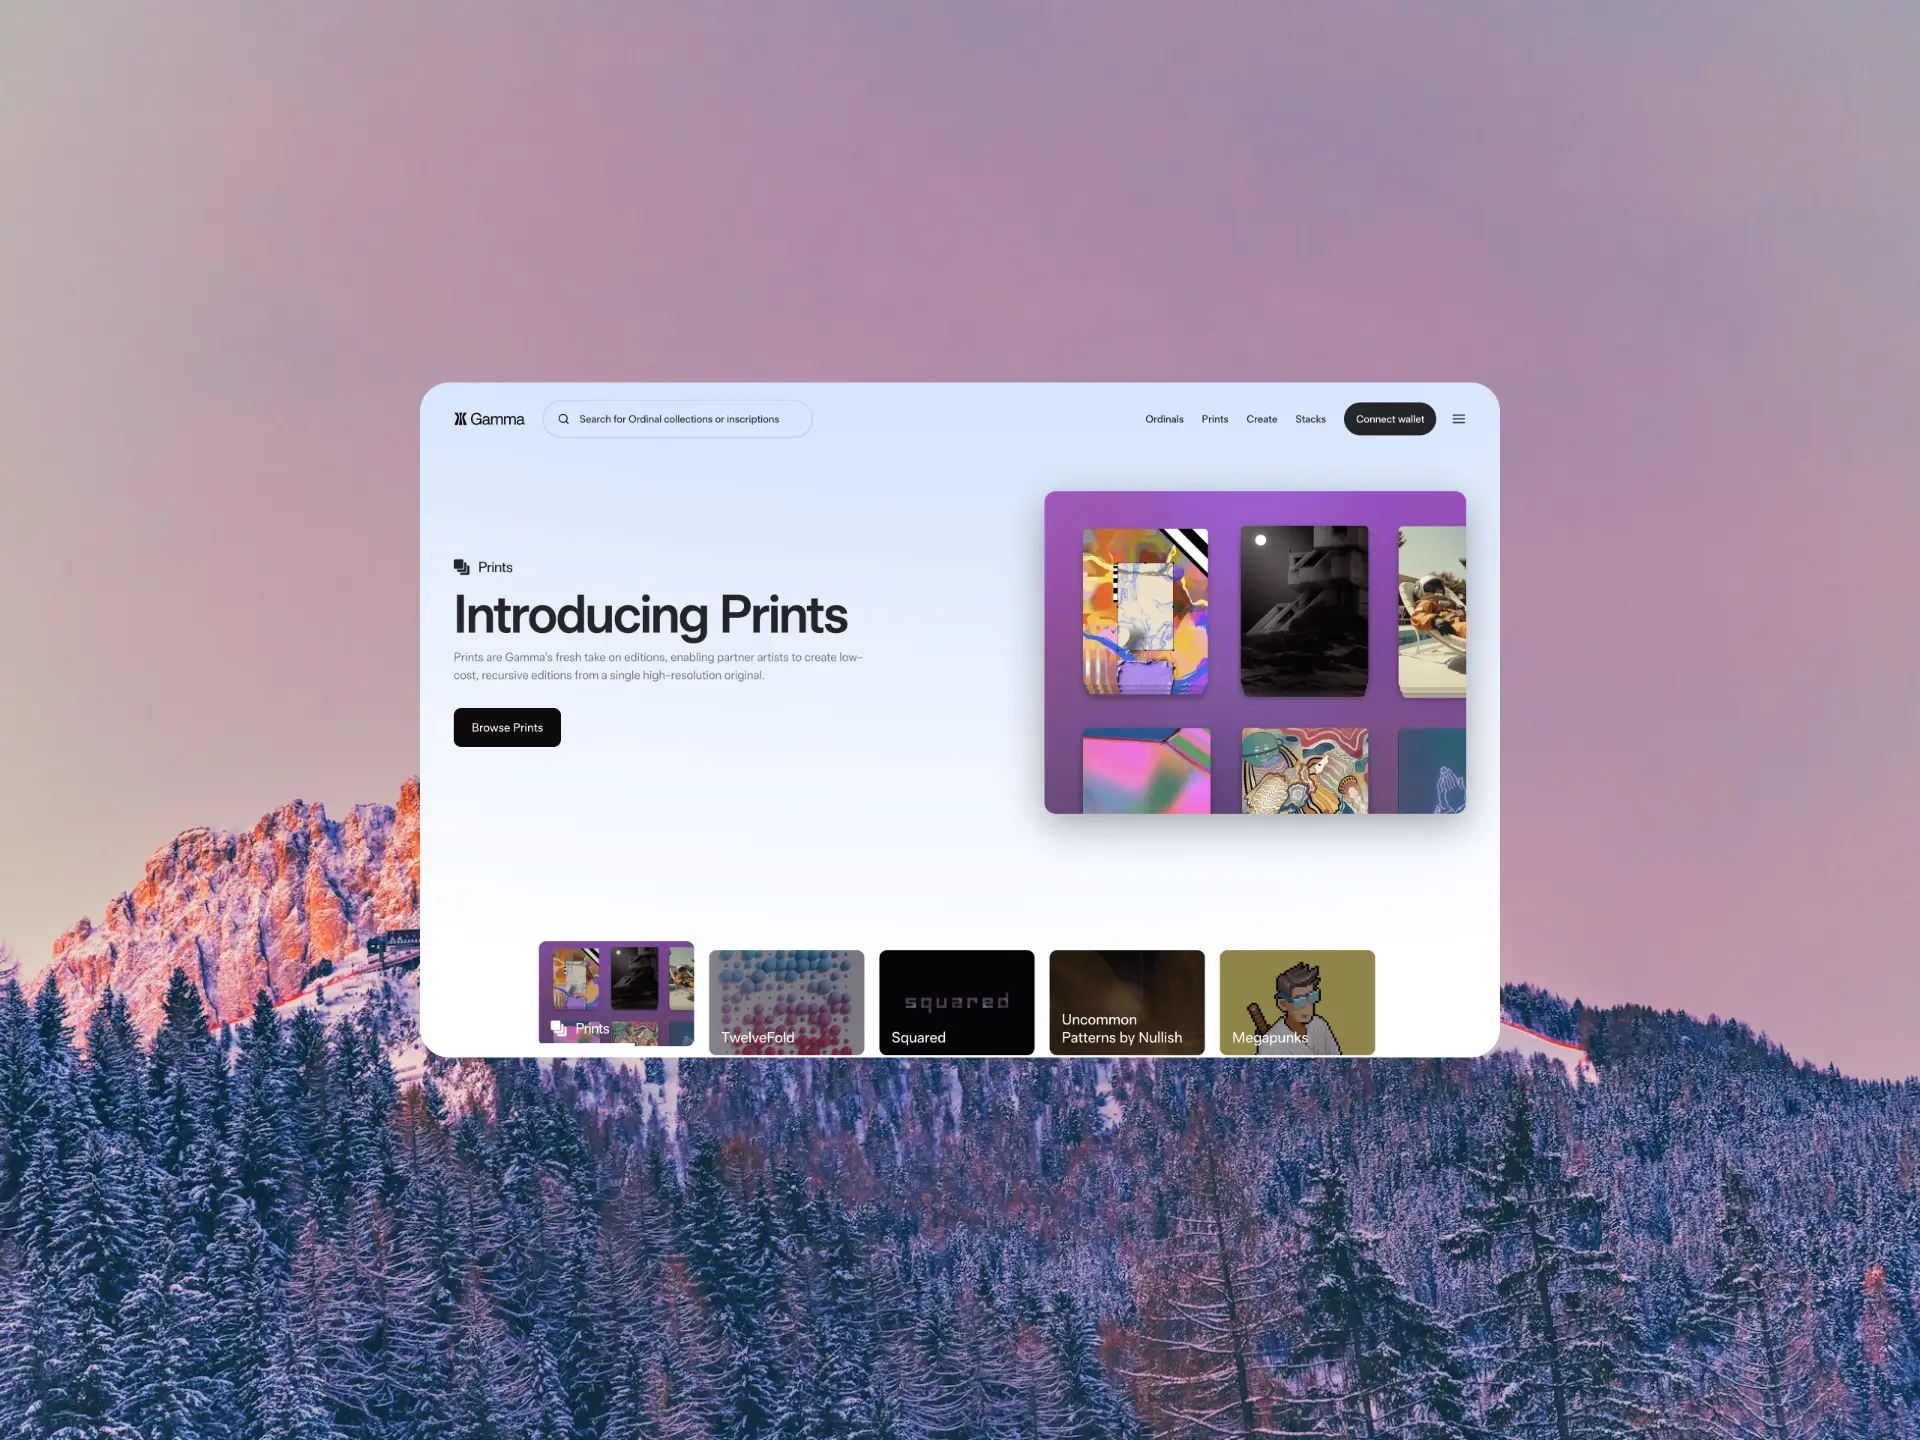
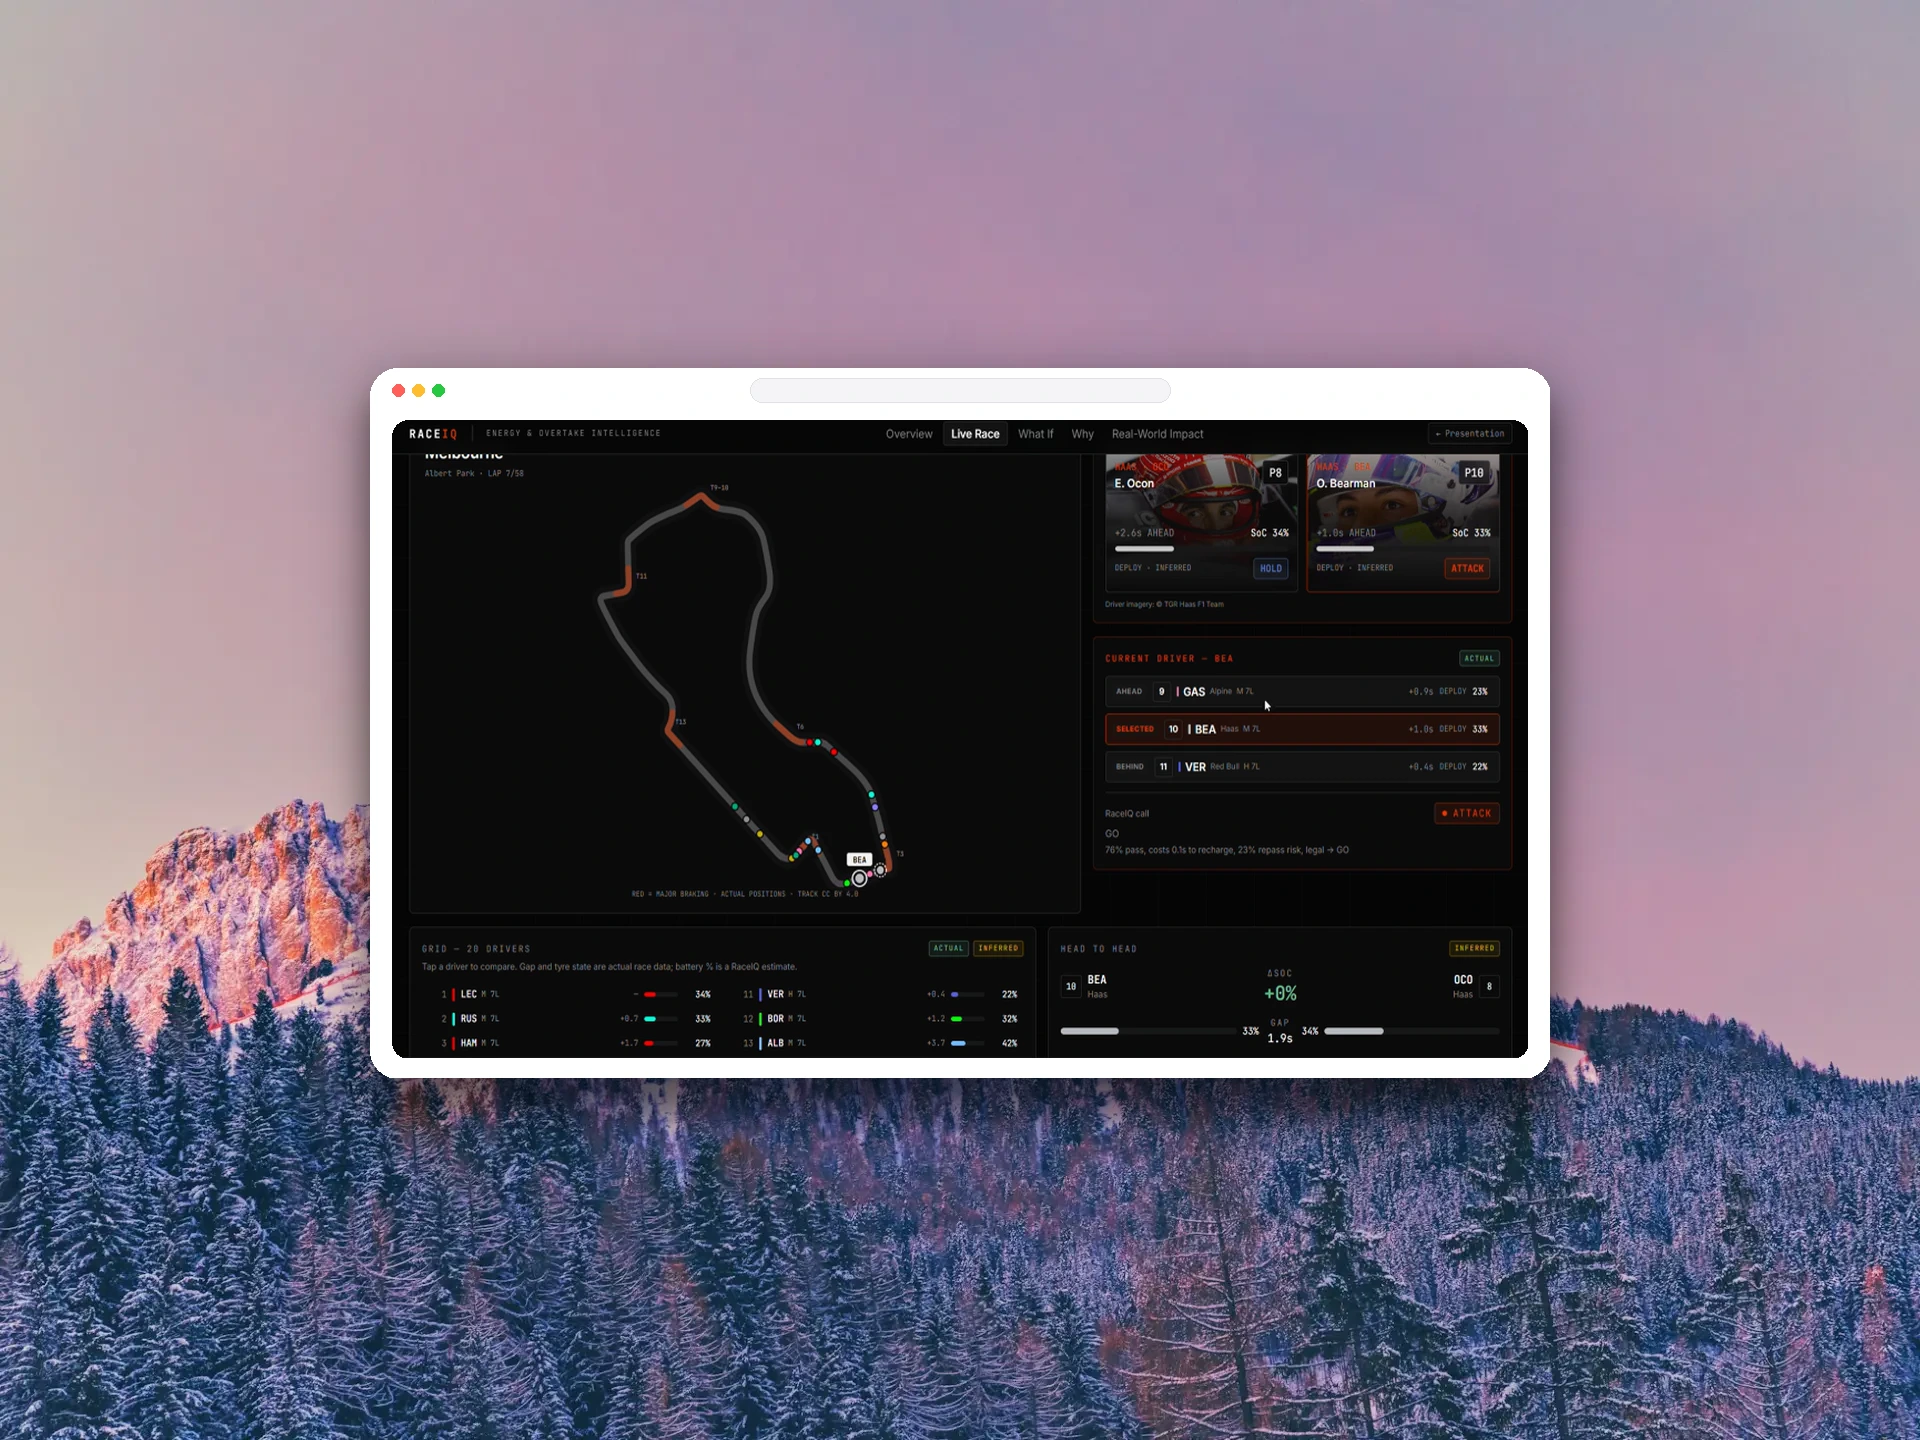
Clean up StickerDump page, update RaceIQ thumbnail and refine hero and portrait hover

diff --git a/src/components/home/HomeGrid.tsx b/src/components/home/HomeGrid.tsx
@@ -153,13 +153,13 @@ export function HomeGrid() {
           {/* Card 4: Portrait Photo -> Discovers StickerDump.exe */}
           <Link
             href="/stickerdump"
-            aria-label="Discover StickerDump.exe – Independent creative brand"
+            aria-label="Discover StickerDump.exe – Playful stickers & custom NFC cards"
             onMouseEnter={() => setActiveHover("portrait")}
             onMouseLeave={() => setActiveHover(null)}
             style={{ animationDelay: "320ms" }}
             className={`group animate-tile-in sm:col-span-1 md:col-span-3 h-[210px] sm:h-[250px] md:h-[290px] rounded-[22px] sm:rounded-[28px] overflow-hidden relative border transition-all duration-600 ease-[cubic-bezier(0.22,1,0.36,1)] cursor-pointer block ${
               isHovered("portrait")
-                ? "scale-[1.015] border-pink-500/40 dark:border-pink-400/40 z-20 shadow-2xl opacity-100 ring-2 ring-pink-500/20"
+                ? "scale-[1.015] border-black/30 dark:border-white/35 z-20 shadow-2xl opacity-100"
                 : isDimmed("portrait")
                 ? "opacity-60 scale-[0.994] border-black/10 dark:border-white/10"
                 : "opacity-100 scale-100 border-black/10 dark:border-white/10 hover:border-black/25 dark:hover:border-white/30"
@@ -176,11 +176,8 @@ export function HomeGrid() {
 
             {/* Subtle floating StickerDump badge on hover */}
             <div className="absolute inset-x-0 bottom-0 p-3.5 sm:p-4 bg-gradient-to-t from-black/85 via-black/40 to-transparent flex items-center justify-between text-white opacity-0 group-hover:opacity-100 transition-opacity duration-500 pointer-events-none">
-              <div className="flex items-center gap-2">
-                <span className="w-2 h-2 rounded-full bg-pink-500 animate-pulse" />
-                <span className="text-xs sm:text-sm font-semibold tracking-tight text-white drop-shadow-xs">StickerDump.exe</span>
-              </div>
-              <span className="text-[11px] font-medium text-pink-300 flex items-center gap-0.5">
+              <span className="text-xs sm:text-sm font-semibold tracking-tight text-white drop-shadow-xs">StickerDump.exe</span>
+              <span className="text-[11px] font-medium text-zinc-300 dark:text-zinc-400 flex items-center gap-0.5">
                 <span>Brand</span>
                 <ArrowUpRight className="w-3.5 h-3.5" />
               </span>

diff --git a/src/components/stickerdump/StickerDumpHero.tsx b/src/components/stickerdump/StickerDumpHero.tsx
@@ -2,7 +2,7 @@
 
 import React from "react";
 import Image from "next/image";
-import { ArrowDown, Sparkles, Smartphone, Layers, ShieldCheck } from "lucide-react";
+import { ArrowDown, Smartphone, Layers, ShieldCheck } from "lucide-react";
 import { stickerDumpContent } from "@/content/stickerdump";
 
 export function StickerDumpHero() {
@@ -12,12 +12,6 @@ export function StickerDumpHero() {
       <div className="absolute top-10 left-1/2 -translate-x-1/2 w-[300px] sm:w-[500px] md:w-[700px] h-[260px] sm:h-[400px] bg-gradient-to-tr from-pink-500/15 via-purple-500/10 to-amber-500/10 rounded-full blur-3xl pointer-events-none -z-10" />
 
       <div className="max-w-[1240px] mx-auto flex flex-col items-center text-center">
-        {/* Eyebrow badge */}
-        <div className="inline-flex items-center gap-2 px-3.5 py-1.5 rounded-full bg-pink-500/10 dark:bg-pink-400/15 border border-pink-500/20 text-pink-700 dark:text-pink-300 text-xs sm:text-sm font-medium mb-6 sm:mb-8 select-none">
-          <Sparkles className="w-3.5 h-3.5" />
-          <span>{stickerDumpContent.eyebrow}</span>
-        </div>
-
         {/* Hero Visual Collage: Prominent StickerDump Logo & Floating Accents */}
         <div className="relative w-full max-w-2xl h-[170px] sm:h-[240px] md:h-[300px] mb-8 sm:mb-12 flex items-center justify-center select-none">
           {/* Main Logo Container */}
@@ -80,10 +74,10 @@ export function StickerDumpHero() {
         {/* CTA Buttons */}
         <div className="flex flex-col sm:flex-row items-center gap-3 sm:gap-4 w-full sm:w-auto">
           <a
-            href="#stickers"
+            href="#pricing"
             className="w-full sm:w-auto inline-flex items-center justify-center gap-2 px-7 py-3.5 rounded-full bg-pink-600 hover:bg-pink-700 dark:bg-pink-500 dark:hover:bg-pink-600 text-white font-medium text-sm sm:text-base transition-all shadow-md hover:shadow-lg hover:scale-102"
           >
-            <span>Explore the Stickers</span>
+            <span>Explore Pricing &amp; Order</span>
             <ArrowDown className="w-4 h-4" />
           </a>
 

diff --git a/src/components/stickerdump/PricingOrdering.tsx b/src/components/stickerdump/PricingOrdering.tsx
@@ -5,7 +5,7 @@ import { ArrowUpRight, MessageCircle, HelpCircle } from "lucide-react";
 import { stickerDumpContent } from "@/content/stickerdump";
 
 export function PricingOrdering() {
-  const { small, large, minOrder, steps, customNote } = stickerDumpContent.pricing;
+  const { small, large, minOrder, customNote } = stickerDumpContent.pricing;
 
   return (
     <section id="pricing" className="w-full py-16 sm:py-24 px-4 sm:px-8 md:px-12 scroll-mt-20">
@@ -134,32 +134,6 @@ export function PricingOrdering() {
                 <span>Direct packing &amp; personal care</span>
               </li>
             </ul>
-          </div>
-        </div>
-
-        {/* 3-Step Ordering Guide */}
-        <div className="flex flex-col gap-6">
-          <h3 className="text-xl sm:text-2xl font-bold tracking-tight text-black dark:text-white">
-            Ordering in 3 Simple Steps
-          </h3>
-
-          <div className="grid grid-cols-1 md:grid-cols-3 gap-4 sm:gap-6">
-            {steps.map((s) => (
-              <div
-                key={s.num}
-                className="p-6 rounded-[22px] bg-black/5 dark:bg-white/5 border border-black/5 dark:border-white/10 flex flex-col gap-2"
-              >
-                <span className="text-2xl font-extrabold font-mono text-pink-600 dark:text-pink-400">
-                  {s.num}
-                </span>
-                <h4 className="text-base font-semibold text-black dark:text-white">
-                  {s.title}
-                </h4>
-                <p className="text-xs sm:text-sm text-zinc-600 dark:text-zinc-400 leading-relaxed font-normal">
-                  {s.desc}
-                </p>
-              </div>
-            ))}
           </div>
         </div>
 

diff --git a/src/components/stickerdump/BehindTheBrand.tsx b/src/components/stickerdump/BehindTheBrand.tsx
@@ -2,7 +2,6 @@
 
 import React from "react";
 import Image from "next/image";
-import { Sparkles, Heart } from "lucide-react";
 import { stickerDumpContent } from "@/content/stickerdump";
 
 export function BehindTheBrand() {
@@ -30,15 +29,13 @@ export function BehindTheBrand() {
             </p>
 
             <div className="p-6 sm:p-8 rounded-[28px] glass-panel border border-black/10 dark:border-white/15 flex flex-col gap-4">
-              <div className="flex items-center gap-2 text-xs font-mono text-pink-600 dark:text-pink-400 font-semibold uppercase tracking-wider">
-                <Sparkles className="w-4 h-4" />
-                <span>Independent Ethos</span>
-              </div>
+              <span className="text-xs font-mono text-pink-600 dark:text-pink-400 font-semibold uppercase tracking-wider">
+                Design &amp; Build Ethos
+              </span>
               <p className="text-xs sm:text-sm text-zinc-600 dark:text-zinc-400 leading-relaxed">
                 No corporate committees or mass-market algorithms. Every sticker design and physical card prototype is cut, reviewed, and packed by an engineering student with a genuine obsession for good design and tactile individuality.
               </p>
-              <div className="flex items-center gap-2 pt-2 text-xs text-zinc-500 font-mono">
-                <Heart className="w-3.5 h-3.5 text-pink-500" />
+              <div className="pt-2 text-xs text-zinc-500 font-mono">
                 <span>Crafted by Rugved Shelke in Kolhapur, India</span>
               </div>
             </div>

diff --git a/src/components/home/HeroTitleMorph.tsx b/src/components/home/HeroTitleMorph.tsx
@@ -15,16 +15,18 @@ export function HeroTitleMorph({ title, isStickerDump = false }: HeroTitleMorphP
       {isStickerDump ? (
         <div
           key="stickerdump-hero-logo"
-          className="animate-sticker-pop flex items-center justify-center filter drop-shadow-[0_12px_32px_rgba(176,33,103,0.35)]"
+          className="relative z-20 flex items-center justify-center -translate-y-6 sm:-translate-y-10 md:-translate-y-14 lg:-translate-y-16"
         >
-          <div className="relative w-[220px] sm:w-[320px] md:w-[420px] lg:w-[480px] h-[75px] sm:h-[105px] md:h-[135px] lg:h-[155px]">
-            <Image
-              src="/images/stickerdump/stickerdump-logo.png"
-              alt="StickerDump.exe"
-              fill
-              priority
-              className="object-contain"
-            />
+          <div className="animate-sticker-pop flex items-center justify-center filter drop-shadow-[0_12px_32px_rgba(0,0,0,0.35)] dark:drop-shadow-[0_12px_32px_rgba(255,255,255,0.2)]">
+            <div className="relative w-[340px] sm:w-[500px] md:w-[640px] lg:w-[740px] h-[110px] sm:h-[160px] md:h-[200px] lg:h-[230px]">
+              <Image
+                src="/images/stickerdump/stickerdump-logo.png"
+                alt="StickerDump.exe"
+                fill
+                priority
+                className="object-contain"
+              />
+            </div>
           </div>
         </div>
       ) : (

diff --git a/src/app/stickerdump/page.tsx b/src/app/stickerdump/page.tsx
@@ -1,6 +1,5 @@
 import { StickerDumpNav } from "@/components/stickerdump/StickerDumpNav";
 import { StickerDumpHero } from "@/components/stickerdump/StickerDumpHero";
-import { StickerCollection } from "@/components/stickerdump/StickerCollection";
 import { PricingOrdering } from "@/components/stickerdump/PricingOrdering";
 import { NfcShowcase } from "@/components/stickerdump/NfcShowcase";
 import { BehindTheBrand } from "@/components/stickerdump/BehindTheBrand";
@@ -10,7 +9,7 @@ import { StickerDumpFooter } from "@/components/stickerdump/StickerDumpFooter";
 export const metadata = {
   title: "StickerDump.exe – Playful Stickers & Personalized NFC Cards",
   description:
-    "Independent creative brand by Rugved Shelke. Playful sticker designs, weatherproof vinyl prints, and personalized NFC business & portfolio cards.",
+    "Playful sticker designs, weatherproof vinyl prints, and personalized NFC business & portfolio cards by Rugved Shelke.",
 };
 
 export default function StickerDumpPage() {
@@ -19,7 +18,6 @@ export default function StickerDumpPage() {
       <StickerDumpNav />
       <div className="flex-1 flex flex-col w-full">
         <StickerDumpHero />
-        <StickerCollection />
         <PricingOrdering />
         <NfcShowcase />
         <BehindTheBrand />

diff --git a/src/content/stickerdump.ts b/src/content/stickerdump.ts
@@ -9,7 +9,7 @@ export interface StickerCategory {
 
 export const stickerDumpContent = {
   brandName: "StickerDump.exe",
-  eyebrow: "INDEPENDENT CREATIVE BRAND · STICKERS & NFC",
+  eyebrow: "STICKERS & NFC PRODUCTS",
   headline: "Small things. Big personality.",
   supportingCopy:
     "StickerDump.exe is where playful sticker designs meet personalized products. Made for your laptop, your everyday carry, your space, and the way you express yourself.",
@@ -120,7 +120,7 @@ export const stickerDumpContent = {
   behindTheBrand: {
     heading: "Made with a little chaos.",
     story:
-      "StickerDump.exe began as an independent creative venture by Rugved Shelke—driven by the simple conviction that the physical things we carry every day deserve personal expression. In a world crowded with sterile tech, we cut through the noise with tactile stickers, vibrant ink, and experimental NFC products.",
+      "StickerDump.exe was started by Rugved Shelke—driven by the conviction that the physical things we carry every day deserve personal expression. In a world crowded with sterile tech, we cut through the noise with tactile stickers, vibrant ink, and experimental NFC products.",
   },
 
   finalCta: {

diff --git a/src/components/stickerdump/StickerDumpNav.tsx b/src/components/stickerdump/StickerDumpNav.tsx
@@ -47,12 +47,6 @@ export function StickerDumpNav() {
       {/* Center Column: Anchor Navigation */}
       <nav className="hidden md:flex items-center gap-6 lg:gap-8 font-medium text-zinc-600 dark:text-zinc-400">
         <a
-          href="#stickers"
-          className="hover:text-black dark:hover:text-white transition-colors"
-        >
-          Stickers
-        </a>
-        <a
           href="#pricing"
           className="hover:text-black dark:hover:text-white transition-colors"
         >
@@ -116,13 +110,6 @@ export function StickerDumpNav() {
       {/* Mobile Drawer */}
       {mobileMenuOpen && (
         <div className="absolute top-full left-0 w-full bg-[var(--bg-page)] border-b border-black/10 dark:border-white/10 p-6 flex flex-col gap-4 md:hidden z-50 shadow-xl">
-          <a
-            href="#stickers"
-            onClick={() => setMobileMenuOpen(false)}
-            className="text-base font-medium text-black dark:text-white"
-          >
-            Stickers
-          </a>
           <a
             href="#pricing"
             onClick={() => setMobileMenuOpen(false)}

diff --git a/src/components/stickerdump/StickerDumpFooter.tsx b/src/components/stickerdump/StickerDumpFooter.tsx
@@ -40,12 +40,6 @@ export function StickerDumpFooter() {
           {/* Quick Links */}
           <div className="flex flex-wrap items-center gap-5 sm:gap-6 text-xs sm:text-sm font-medium text-zinc-600 dark:text-zinc-400">
             <a
-              href="#stickers"
-              className="hover:text-black dark:hover:text-white transition-colors"
-            >
-              Stickers
-            </a>
-            <a
               href="#pricing"
               className="hover:text-black dark:hover:text-white transition-colors"
             >
@@ -80,7 +74,7 @@ export function StickerDumpFooter() {
           </Link>
 
           <span>
-            © {currentYear} StickerDump.exe · An independent creative brand by Rugved Shelke
+            © {currentYear} StickerDump.exe · Rugved Shelke
           </span>
         </div>
       </div>

diff --git a/src/content/projects.ts b/src/content/projects.ts
@@ -31,7 +31,7 @@ export const projectsContent: ProjectItem[] = [
     title: "RaceIQ — Real-Time Race Decision Engine",
     category: "AI / Motorsport Strategy",
     year: "2026",
-    image: "/images/projects/raceiq.webp",
+    image: "/images/projects/raceiq-hero.webp",
     overview:
       "Co-built a race decision engine for TrackShift 2026 in connection with the Haas F1 Team. The system inferred hidden opponent battery state from public telemetry using an 8-state Hidden Markov Model and optimized attack, hold, and defend decisions using a two-tier dynamic-programming and rolling-horizon model-predictive-control engine.",
     challenge:
